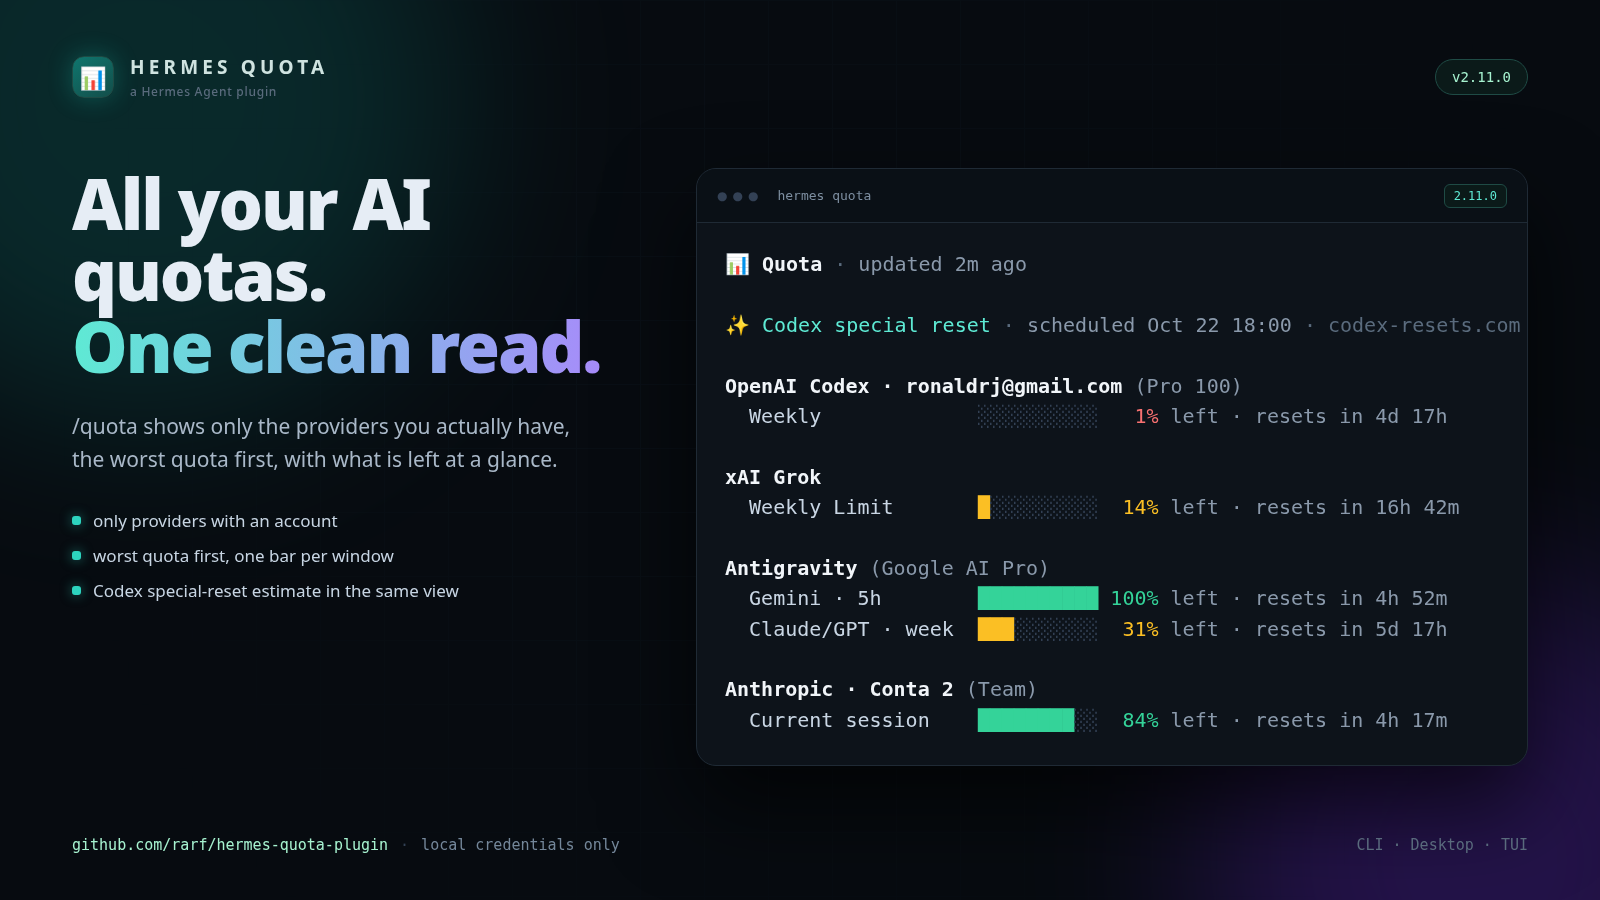
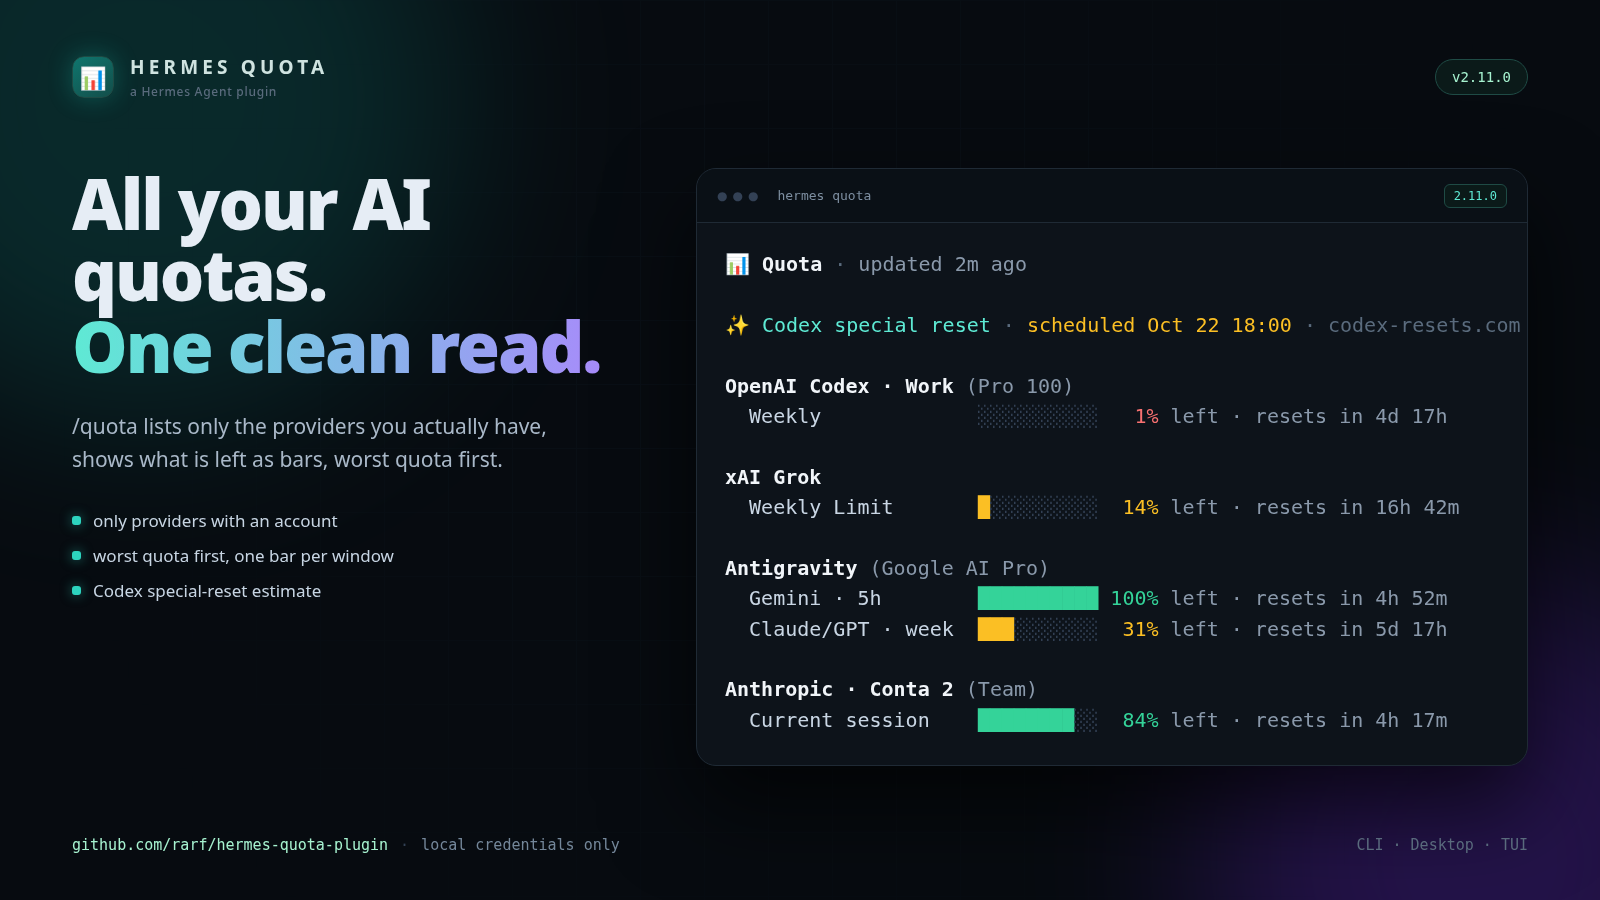
docs(quota): replace the social card with PII-free 2.11 art
Three 1600x900 cards for the launch, the Codex special reset and the
CLI/Desktop/TUI surfaces. No account email in the artwork or sources.

diff --git a/docs/images/_quota-2.11.0-card-reset.html b/docs/images/_quota-2.11.0-card-reset.html
@@ -1,0 +1,75 @@
+<!doctype html><html lang="en"><head><meta charset="utf-8"><style>
+  :root{--bg:#070b10;--panel:#0d131a;--stroke:#1f2a35;--text:#e6edf5;--muted:#8a99ab;
+    --dim:#5a6b7d;--teal:#2dd4bf;--violet:#8b5cf6;--green:#34d399;--amber:#fbbf24;--red:#f87171}
+  *{box-sizing:border-box}
+  html,body{margin:0;width:1600px;height:900px;overflow:hidden;background:var(--bg);
+    font-family:"Noto Sans","DejaVu Sans",sans-serif;color:var(--text)}
+  body{position:relative}
+  .glow{position:absolute;border-radius:50%;filter:blur(90px);opacity:.28;pointer-events:none}
+  .g1{width:640px;height:640px;background:#0f766e;left:-180px;top:-220px}
+  .g2{width:560px;height:560px;background:#6d28d9;right:-160px;bottom:-240px}
+  .grid{position:absolute;inset:0;background-image:linear-gradient(#12202b 1px,transparent 1px),
+    linear-gradient(90deg,#12202b 1px,transparent 1px);background-size:64px 64px;opacity:.22;
+    mask-image:radial-gradient(circle at 50% 40%,#000 20%,transparent 78%)}
+  header{position:absolute;left:72px;right:72px;top:54px;display:flex;align-items:center;gap:16px}
+  .mark{width:42px;height:42px;border-radius:12px;display:grid;place-items:center;font-size:22px;
+    background:linear-gradient(145deg,#0f766e,#134e4a);border:1px solid #1f4b45;box-shadow:0 0 24px #14b8a655}
+  .brand{font-size:19px;letter-spacing:.22em;font-weight:700;color:#cfe3e0}
+  .brand small{display:block;letter-spacing:.06em;font-weight:500;color:var(--dim);font-size:12px;margin-top:3px}
+  .pill{margin-left:auto;font-family:"DejaVu Sans Mono",monospace;font-size:14px;color:#a7f3d0;
+    border:1px solid #1f4b45;background:#0b1a19;border-radius:999px;padding:9px 16px}
+  main{position:absolute;left:72px;right:72px;top:168px;display:grid;grid-template-columns:560px 1fr;gap:64px}
+  h1{margin:0;font-size:70px;line-height:1.02;letter-spacing:-.03em;font-weight:800}
+  h1 .grad{background:linear-gradient(92deg,#5eead4 0%,#a78bfa 100%);-webkit-background-clip:text;color:transparent}
+  .sub{margin:28px 0 0;font-size:21px;line-height:1.55;color:#a9b8c8;max-width:520px}
+  .chips{list-style:none;padding:0;margin:34px 0 0;display:flex;flex-direction:column;gap:12px}
+  .chips li{font-size:17px;color:#c7d5e3;display:flex;align-items:center;gap:12px}
+  .chips li::before{content:"";width:9px;height:9px;border-radius:3px;background:var(--teal);
+    box-shadow:0 0 12px #2dd4bf88;flex:none}
+  .term{background:var(--panel);border:1px solid var(--stroke);border-radius:20px;overflow:hidden;
+    box-shadow:0 40px 90px #000a, inset 0 1px 0 #ffffff0d}
+  .bar{height:54px;display:flex;align-items:center;gap:14px;padding:0 20px;background:#0a1016;
+    border-bottom:1px solid var(--stroke)}
+  .dots{font-size:12px;letter-spacing:5px;color:#334155}
+  .bar .title{font-family:"DejaVu Sans Mono",monospace;font-size:13px;color:#7d8ea0}
+  .bar .tag{margin-left:auto;font-family:"DejaVu Sans Mono",monospace;font-size:12px;color:#5eead4;
+    border:1px solid #1f4b45;background:#0b1a19;border-radius:6px;padding:4px 9px}
+  pre{margin:0;padding:26px 28px 30px;font-family:"DejaVu Sans Mono",monospace;font-size:20px;
+    line-height:1.52;color:#c9d6e4;white-space:pre}
+  .b{color:#f1f5f9;font-weight:700}.m{color:#8a99ab}.d{color:#5a6b7d}.t{color:#5eead4}
+  .g{color:var(--green)}.a{color:var(--amber)}.r{color:var(--red)}.e{color:#334155}
+  footer{position:absolute;left:72px;right:72px;bottom:46px;display:flex;align-items:center;
+    font-family:"DejaVu Sans Mono",monospace;font-size:15px;color:#74879a}
+  footer .repo{color:#a7f3d0}footer .sep{margin:0 12px;color:#334155}footer .right{margin-left:auto;color:#5a6b7d}
+</style></head>
+<body>
+  <div class="glow g1"></div><div class="glow g2"></div><div class="grid"></div>
+  <header>
+    <div class="mark">📊</div>
+    <div class="brand">HERMES QUOTA<small>a Hermes Agent plugin</small></div>
+    <div class="pill">v2.11.0</div>
+  </header>
+  <main>
+    <section>
+      <h1>The reset is coming.<br><span class="grad">Now you know when.</span></h1>
+      <p class="sub">Codex special-reset announcements sit beside the quota they affect: the published estimate, the post time and the source.</p>
+      <ul class="chips"><li>published estimate, never a guess</li><li>post time shown separately</li><li>never claims the reset ran</li></ul>
+    </section>
+    <section class="term">
+      <div class="bar"><span class="dots">●●●</span><span class="title">hermes quota</span><span class="tag">2.11.0</span></div>
+      <pre>📊 <span class="b">Quota</span> <span class="d">·</span> <span class="m">updated 2m ago</span>
+
+✨ <span class="t">Codex special reset</span> <span class="d">·</span> <span class="a">scheduled Oct 22 18:00</span> <span class="d">·</span> <span class="d">codex-resets.com</span>
+<span class="m">   announced 07:55</span> <span class="d">·</span> <span class="m">estimate, not execution</span>
+
+<span class="b">OpenAI Codex · Work</span> <span class="m">(Pro 100)</span>
+  Weekly             <span class="r"></span><span class="e">░░░░░░░░░░</span>   <span class="r">1%</span> <span class="m">left · resets in 4d 17h</span>
+
+<span class="b">xAI Grok</span>
+  Weekly Limit       <span class="a">█</span><span class="e">░░░░░░░░░</span>  <span class="a">14%</span> <span class="m">left · resets in 16h 42m</span></pre>
+    </section>
+  </main>
+  <footer><span class="repo">github.com/rarf/hermes-quota-plugin</span>
+    <span class="sep">·</span><span>local credentials only</span>
+    <span class="right">CLI · Desktop · TUI</span></footer>
+</body></html>

diff --git a/docs/images/_quota-2.11.0-card-surfaces.html b/docs/images/_quota-2.11.0-card-surfaces.html
@@ -1,0 +1,73 @@
+<!doctype html><html lang="en"><head><meta charset="utf-8"><style>
+  :root{--bg:#070b10;--panel:#0d131a;--stroke:#1f2a35;--text:#e6edf5;--muted:#8a99ab;
+    --dim:#5a6b7d;--teal:#2dd4bf;--violet:#8b5cf6;--green:#34d399;--amber:#fbbf24;--red:#f87171}
+  *{box-sizing:border-box}
+  html,body{margin:0;width:1600px;height:900px;overflow:hidden;background:var(--bg);
+    font-family:"Noto Sans","DejaVu Sans",sans-serif;color:var(--text)}
+  body{position:relative}
+  .glow{position:absolute;border-radius:50%;filter:blur(90px);opacity:.28;pointer-events:none}
+  .g1{width:640px;height:640px;background:#0f766e;left:-180px;top:-220px}
+  .g2{width:560px;height:560px;background:#6d28d9;right:-160px;bottom:-240px}
+  .grid{position:absolute;inset:0;background-image:linear-gradient(#12202b 1px,transparent 1px),
+    linear-gradient(90deg,#12202b 1px,transparent 1px);background-size:64px 64px;opacity:.22;
+    mask-image:radial-gradient(circle at 50% 40%,#000 20%,transparent 78%)}
+  header{position:absolute;left:72px;right:72px;top:54px;display:flex;align-items:center;gap:16px}
+  .mark{width:42px;height:42px;border-radius:12px;display:grid;place-items:center;font-size:22px;
+    background:linear-gradient(145deg,#0f766e,#134e4a);border:1px solid #1f4b45;box-shadow:0 0 24px #14b8a655}
+  .brand{font-size:19px;letter-spacing:.22em;font-weight:700;color:#cfe3e0}
+  .brand small{display:block;letter-spacing:.06em;font-weight:500;color:var(--dim);font-size:12px;margin-top:3px}
+  .pill{margin-left:auto;font-family:"DejaVu Sans Mono",monospace;font-size:14px;color:#a7f3d0;
+    border:1px solid #1f4b45;background:#0b1a19;border-radius:999px;padding:9px 16px}
+  main{position:absolute;left:72px;right:72px;top:168px;display:grid;grid-template-columns:560px 1fr;gap:64px}
+  h1{margin:0;font-size:70px;line-height:1.02;letter-spacing:-.03em;font-weight:800}
+  h1 .grad{background:linear-gradient(92deg,#5eead4 0%,#a78bfa 100%);-webkit-background-clip:text;color:transparent}
+  .sub{margin:28px 0 0;font-size:21px;line-height:1.55;color:#a9b8c8;max-width:520px}
+  .chips{list-style:none;padding:0;margin:34px 0 0;display:flex;flex-direction:column;gap:12px}
+  .chips li{font-size:17px;color:#c7d5e3;display:flex;align-items:center;gap:12px}
+  .chips li::before{content:"";width:9px;height:9px;border-radius:3px;background:var(--teal);
+    box-shadow:0 0 12px #2dd4bf88;flex:none}
+  .term{background:var(--panel);border:1px solid var(--stroke);border-radius:20px;overflow:hidden;
+    box-shadow:0 40px 90px #000a, inset 0 1px 0 #ffffff0d}
+  .bar{height:54px;display:flex;align-items:center;gap:14px;padding:0 20px;background:#0a1016;
+    border-bottom:1px solid var(--stroke)}
+  .dots{font-size:12px;letter-spacing:5px;color:#334155}
+  .bar .title{font-family:"DejaVu Sans Mono",monospace;font-size:13px;color:#7d8ea0}
+  .bar .tag{margin-left:auto;font-family:"DejaVu Sans Mono",monospace;font-size:12px;color:#5eead4;
+    border:1px solid #1f4b45;background:#0b1a19;border-radius:6px;padding:4px 9px}
+  pre{margin:0;padding:26px 28px 30px;font-family:"DejaVu Sans Mono",monospace;font-size:20px;
+    line-height:1.52;color:#c9d6e4;white-space:pre}
+  .b{color:#f1f5f9;font-weight:700}.m{color:#8a99ab}.d{color:#5a6b7d}.t{color:#5eead4}
+  .g{color:var(--green)}.a{color:var(--amber)}.r{color:var(--red)}.e{color:#334155}
+  footer{position:absolute;left:72px;right:72px;bottom:46px;display:flex;align-items:center;
+    font-family:"DejaVu Sans Mono",monospace;font-size:15px;color:#74879a}
+  footer .repo{color:#a7f3d0}footer .sep{margin:0 12px;color:#334155}footer .right{margin-left:auto;color:#5a6b7d}
+</style></head>
+<body>
+  <div class="glow g1"></div><div class="glow g2"></div><div class="grid"></div>
+  <header>
+    <div class="mark">📊</div>
+    <div class="brand">HERMES QUOTA<small>a Hermes Agent plugin</small></div>
+    <div class="pill">v2.11.0</div>
+  </header>
+  <main>
+    <section>
+      <h1>One view.<br><span class="grad">Every surface.</span></h1>
+      <p class="sub">The same quota data in the terminal, the Desktop pane and the TUI dock. Local credentials only.</p>
+      <ul class="chips"><li>CLI: /quota and hermes quota</li><li>Desktop pane + status tooltip</li><li>TUI dock chip</li></ul>
+    </section>
+    <section class="term">
+      <div class="bar"><span class="dots">●●●</span><span class="title">hermes quota</span><span class="tag">2.11.0</span></div>
+      <pre>📊 <span class="b">Quota</span> <span class="d">·</span> <span class="m">updated 2m ago</span>
+
+<span class="b">OpenAI Codex · Work</span>    <span class="r"></span><span class="e">░░░░░░░░░░</span>   <span class="r">1%</span> <span class="m">left</span>
+<span class="b">xAI Grok</span>                <span class="a">█</span><span class="e">░░░░░░░░░</span>  <span class="a">14%</span> <span class="m">left</span>
+<span class="b">Antigravity · Gemini</span>    <span class="g">██████████</span> <span class="g">100%</span> <span class="m">left</span>
+<span class="b">Anthropic · Conta 2</span>     <span class="g">████████</span><span class="e">░░</span>  <span class="g">84%</span> <span class="m">left</span>
+
+<span class="d">same JSON · one cache · no extra network on render</span></pre>
+    </section>
+  </main>
+  <footer><span class="repo">github.com/rarf/hermes-quota-plugin</span>
+    <span class="sep">·</span><span>local credentials only</span>
+    <span class="right">CLI · Desktop · TUI</span></footer>
+</body></html>

diff --git a/docs/images/_quota-2.11.0-card.html b/docs/images/_quota-2.11.0-card.html
@@ -1,13 +1,6 @@
-<!doctype html>
-<html lang="en">
-<head>
-<meta charset="utf-8">
-<style>
-  :root{
-    --bg:#070b10; --panel:#0d131a; --stroke:#1f2a35; --text:#e6edf5;
-    --muted:#8a99ab; --dim:#5a6b7d; --teal:#2dd4bf; --violet:#8b5cf6;
-    --green:#34d399; --amber:#fbbf24; --red:#f87171;
-  }
+<!doctype html><html lang="en"><head><meta charset="utf-8"><style>
+  :root{--bg:#070b10;--panel:#0d131a;--stroke:#1f2a35;--text:#e6edf5;--muted:#8a99ab;
+    --dim:#5a6b7d;--teal:#2dd4bf;--violet:#8b5cf6;--green:#34d399;--amber:#fbbf24;--red:#f87171}
   *{box-sizing:border-box}
   html,body{margin:0;width:1600px;height:900px;overflow:hidden;background:var(--bg);
     font-family:"Noto Sans","DejaVu Sans",sans-serif;color:var(--text)}
@@ -43,21 +36,12 @@
     border:1px solid #1f4b45;background:#0b1a19;border-radius:6px;padding:4px 9px}
   pre{margin:0;padding:26px 28px 30px;font-family:"DejaVu Sans Mono",monospace;font-size:20px;
     line-height:1.52;color:#c9d6e4;white-space:pre}
-  .b{color:#f1f5f9;font-weight:700}
-  .m{color:#8a99ab}
-  .d{color:#5a6b7d}
-  .t{color:#5eead4}
-  .v{color:#c4b5fd}
-  .g{color:var(--green)} .a{color:var(--amber)} .r{color:var(--red)}
-  .e{color:#334155}
-  .num{color:#f8fafc;font-weight:700}
+  .b{color:#f1f5f9;font-weight:700}.m{color:#8a99ab}.d{color:#5a6b7d}.t{color:#5eead4}
+  .g{color:var(--green)}.a{color:var(--amber)}.r{color:var(--red)}.e{color:#334155}
   footer{position:absolute;left:72px;right:72px;bottom:46px;display:flex;align-items:center;
     font-family:"DejaVu Sans Mono",monospace;font-size:15px;color:#74879a}
-  footer .repo{color:#a7f3d0}
-  footer .sep{margin:0 12px;color:#334155}
-  footer .right{margin-left:auto;color:#5a6b7d}
-</style>
-</head>
+  footer .repo{color:#a7f3d0}footer .sep{margin:0 12px;color:#334155}footer .right{margin-left:auto;color:#5a6b7d}
+</style></head>
 <body>
   <div class="glow g1"></div><div class="glow g2"></div><div class="grid"></div>
   <header>
@@ -68,21 +52,17 @@
   <main>
     <section>
       <h1>All your AI quotas.<br><span class="grad">One clean read.</span></h1>
-      <p class="sub">/quota shows only the providers you actually have, the worst quota first, with what is left at a glance.</p>
-      <ul class="chips">
-        <li>only providers with an account</li>
-        <li>worst quota first, one bar per window</li>
-        <li>Codex special-reset estimate in the same view</li>
-      </ul>
+      <p class="sub">/quota lists only the providers you actually have, shows what is left as bars, worst quota first.</p>
+      <ul class="chips"><li>only providers with an account</li><li>worst quota first, one bar per window</li><li>Codex special-reset estimate</li></ul>
     </section>
     <section class="term">
       <div class="bar"><span class="dots">●●●</span><span class="title">hermes quota</span><span class="tag">2.11.0</span></div>
       <pre>📊 <span class="b">Quota</span> <span class="d">·</span> <span class="m">updated 2m ago</span>
 
-✨ <span class="t">Codex special reset</span> <span class="d">·</span> <span class="m">scheduled Oct 22 18:00</span> <span class="d">·</span> <span class="d">codex-resets.com</span>
+✨ <span class="t">Codex special reset</span> <span class="d">·</span> <span class="a">scheduled Oct 22 18:00</span> <span class="d">·</span> <span class="d">codex-resets.com</span>
 
-<span class="b">OpenAI Codex · ronaldrj@gmail.com</span> <span class="m">(Pro 100)</span>
-  Weekly             <span class="e">░░░░░░░░░░</span>   <span class="r">1%</span> <span class="m">left · resets in 4d 17h</span>
+<span class="b">OpenAI Codex · Work</span> <span class="m">(Pro 100)</span>
+  Weekly             <span class="r"></span><span class="e">░░░░░░░░░░</span>   <span class="r">1%</span> <span class="m">left · resets in 4d 17h</span>
 
 <span class="b">xAI Grok</span>
   Weekly Limit       <span class="a">█</span><span class="e">░░░░░░░░░</span>  <span class="a">14%</span> <span class="m">left · resets in 16h 42m</span>
@@ -95,10 +75,7 @@
   Current session    <span class="g">████████</span><span class="e">░░</span>  <span class="g">84%</span> <span class="m">left · resets in 4h 17m</span></pre>
     </section>
   </main>
-  <footer>
-    <span class="repo">github.com/rarf/hermes-quota-plugin</span>
+  <footer><span class="repo">github.com/rarf/hermes-quota-plugin</span>
     <span class="sep">·</span><span>local credentials only</span>
-    <span class="right">CLI · Desktop · TUI</span>
-  </footer>
-</body>
-</html>
+    <span class="right">CLI · Desktop · TUI</span></footer>
+</body></html>
